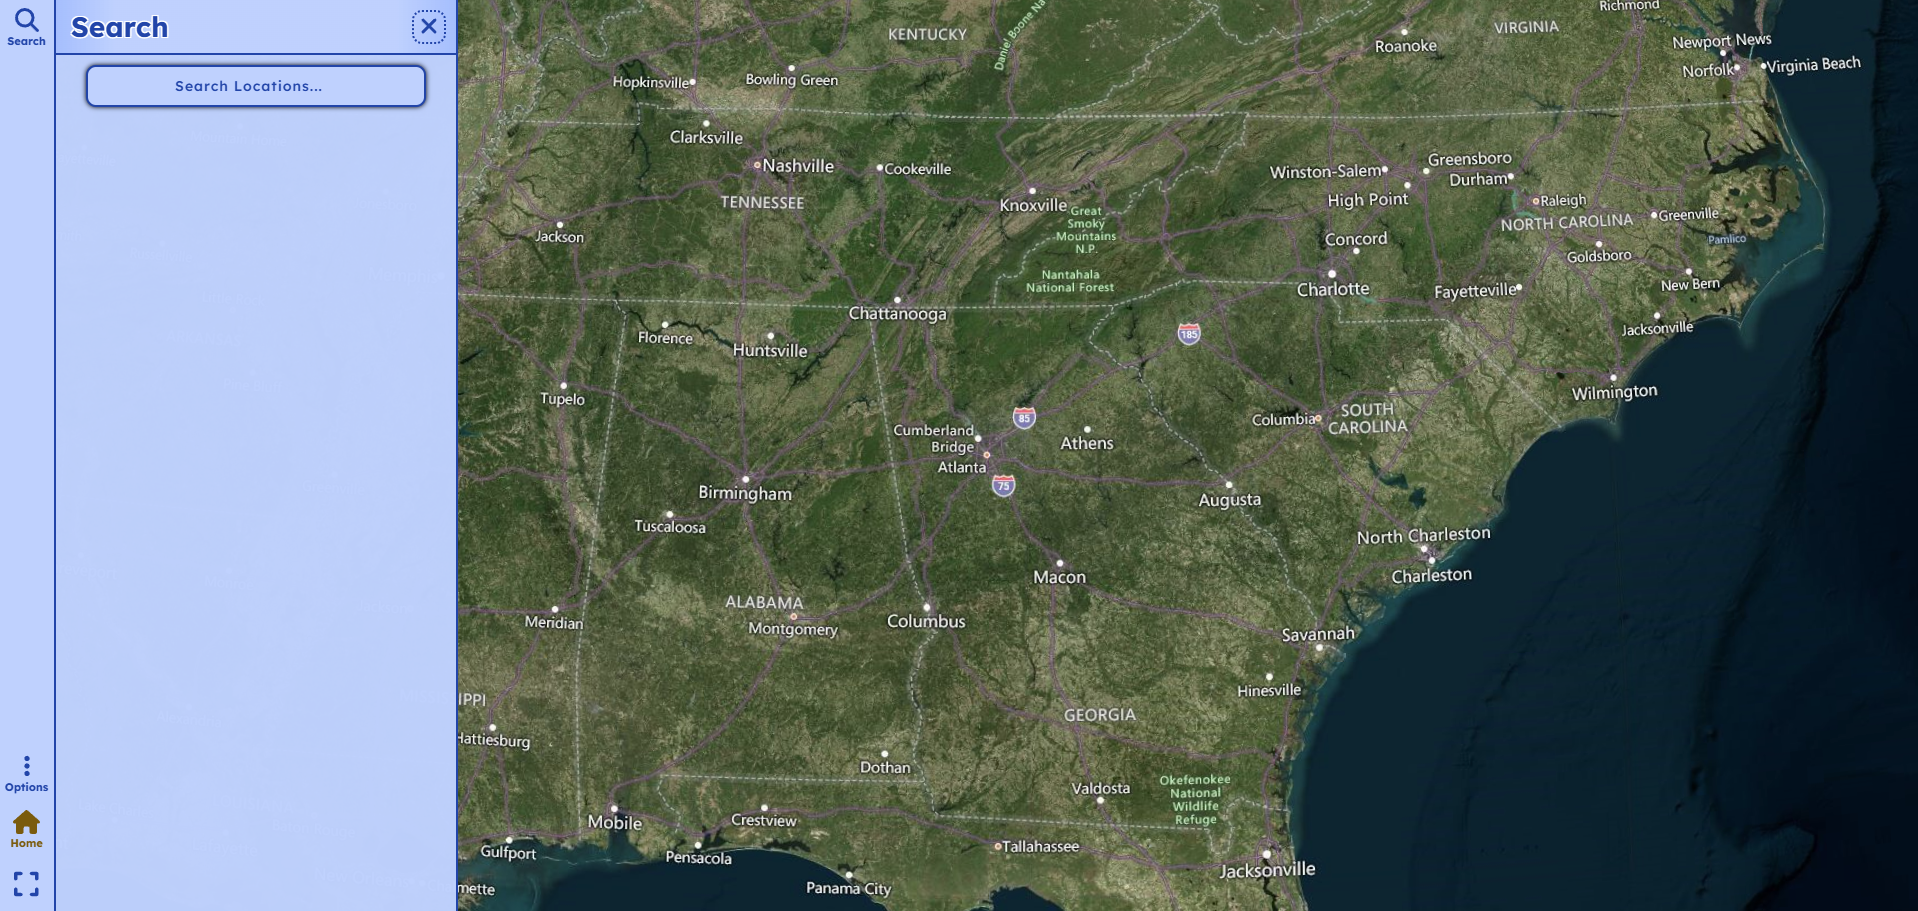
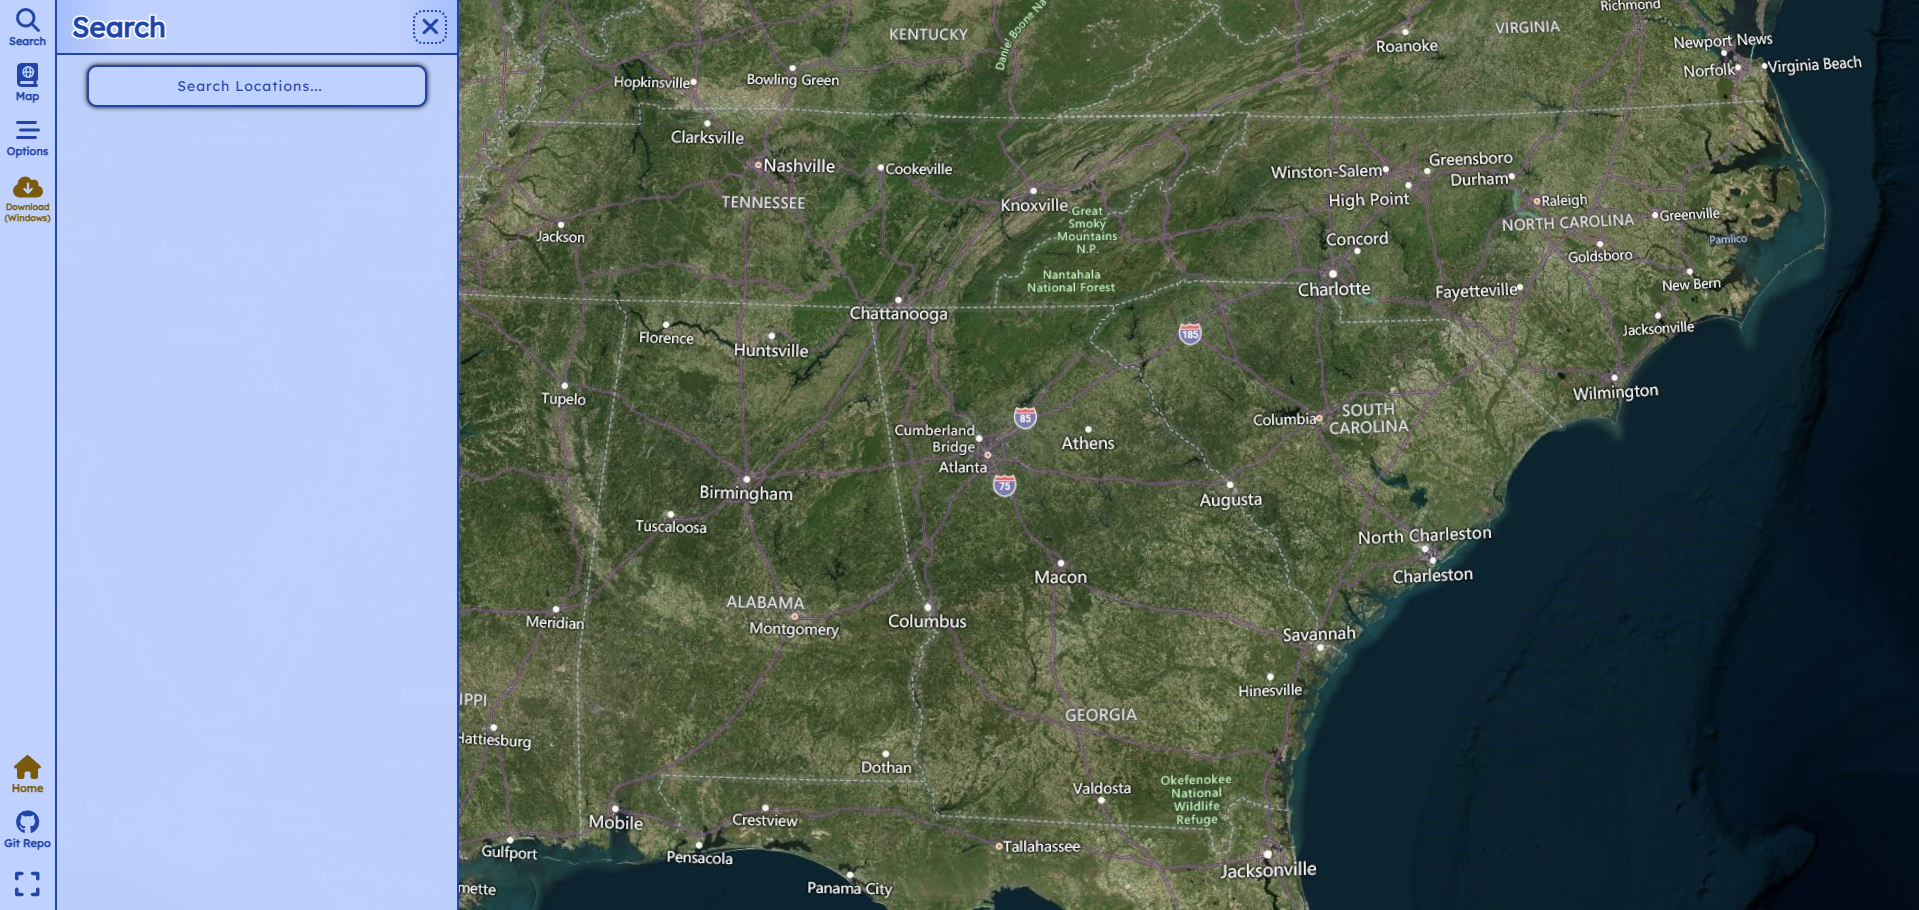
Globe Navigation Card Updates + Updated Dependencies.
Updated the Globe Navigation Card and other related components and assets to properly reflect the new features present on my Globe UI and its purpose.
Updated the Vite and Unhead dependencies. Also updated the project version number.
Made other small edits on the iVue Nav Card and the create app function on main-ssg.js.

diff --git a/src/components/cards/GlobeNavCard.vue b/src/components/cards/GlobeNavCard.vue
@@ -5,7 +5,7 @@
         @mouseleave="setPulseLoopAnimation">
 
         <div class="nav-newCard-header">
-            <img :src="mkj_text" width="200" class="nav-newCard-personalText" />
+            <client-only> <font-awesome-icon icon="fa-earth-americas" style="font-size: 80px;" /> </client-only>
         </div>
         <div class="nav-newCard-picture">
             <img :src="globe_page" width="77.5%" draggable="false" />
@@ -24,8 +24,8 @@
         </div>
 
         <div class="nav-newCard-desc center-flex-display">
-            As a side project, I created a new UI using CesiumJS, 
-            equipped with the ability to search locations across the world.
+            I created a User Interface using CesiumJS as a "Feature Lab" for Worlds iVue. 
+            It can be downloaded as a desktop app via Tauri.
         </div>
     </a>
 </div>
@@ -33,12 +33,10 @@
 
 <script setup>
 import "@/styles/navcards.css";
-import mkj_text from "/static-icons/Personal_Icon_Transparent.png";
 import globe_page from "@/assets/Personal_Globe_Page.png";
-
 import vuejs_icon from "@/assets/Vuejs_Icon.png";
 import cesium_icon from "@/assets/Cesium_Globe_Icon.svg";
-import pinia_icon from "@/assets/Pinia_Icon.svg";
+import tauri_icon from "@/assets/Tauri_Icon.png";
 
 onMounted(() => {
     setNavCardTransition("globe-nav-newCard");
@@ -46,7 +44,7 @@ onMounted(() => {
 
 const DEV_STACK = [
     { title: "Vue.js", icon: vuejs_icon },
-    { title: "Pinia", icon: pinia_icon },
     { title: "Cesium", icon: cesium_icon },
+    { title: "Tauri", icon: tauri_icon },
 ];
 </script>

diff --git a/src/stores/GetMeta.js b/src/stores/GetMeta.js
@@ -1,9 +1,7 @@
-import doc_img from "/static-icons/Personal_Icon_Expanded_Transparent.png";
 import og_img from "/static-icons/Personal_Icon_Expanded_Rounded.png";
-
 const WEBSITE_TITLE = "Mohit Jain | My Portfolio";
-const WEBSITE_DESC = "My personal website extensively displays my skills as a software developer " +
-    "and the experience I have gathered through working with multiple companies. Made With Vue.js.";
+const WEBSITE_DESC = "Hello! My name is Mohit Jain, and I use my portfolio to showcase " +
+    "my skills and as a \"Feature Lab\" for other projects of mine. Made With Vue.js.";
 
 /**
  * This function returns the meta tags for the website for Search Engine Optimization.
@@ -17,7 +15,7 @@ export function getMeta(pageTitle = WEBSITE_TITLE, pageRoute = "", pageDesc = WE
     return {
         title: pageTitle,
         link: [
-            { rel: 'icon', href: doc_img },
+            { rel: 'icon', href: og_img },
             { rel: 'canonical', href: WEBSITE_PATH }
         ],
 
@@ -52,7 +50,7 @@ export function getMeta(pageTitle = WEBSITE_TITLE, pageRoute = "", pageDesc = WE
 export function getMetaWithLink(pageTitle = WEBSITE_TITLE, pageLink = PERSONAL_WEBSITE_LINK, pageDesc = WEBSITE_DESC) {
     return {
         title: pageTitle,
-        link: [{ rel: 'icon', href: doc_img }],
+        link: [{ rel: 'icon', href: og_img }],
 
         meta: [
             { name: 'description', content: pageDesc },

diff --git a/src/styles/navcards.css b/src/styles/navcards.css
@@ -1,6 +1,6 @@
 .newCard-container {
     width: 100%;
-    height: 800px;
+    height: 825px;
     display: flex;
     justify-content: center;
     align-items: center;
@@ -15,7 +15,7 @@
     width: 90%;
     min-width: 290px;
     max-width: 400px;
-    height: 725px;
+    height: 750px;
     border: 3px solid var(--nav-bar-border);
     border-radius: 20px;
     transition: var(--default-transition);
@@ -221,15 +221,14 @@
 }
 
 .nav-newCard#globe-nav-newCard:hover {   
-    background-color: var(--blue-one);
-    color: black;
-    border-color: black;
+    color: var(--blue-cobalt);
+    border-color: var(--blue-cobalt);
 }
 .nav-newCard#globe-nav-newCard:hover .nav-newCard-header {
-    border-color: black;
+    border-color: var(--blue-cobalt);
 }
 .nav-newCard#globe-nav-newCard:hover .nav-newCard-desc {
-    border-color: black;
+    border-color: var(--blue-cobalt);
 }
 
 .nav-newCard#pizza-nav-newCard {

diff --git a/src/main-ssg.js b/src/main-ssg.js
@@ -70,6 +70,7 @@ library.add(
     FaIcons.faVolumeHigh,
     FaIcons.faVolumeXmark,
     FaIcons.faCircleXmark,
+    FaIcons.faEarthAmericas,
 
     FaBrands.faReact,
     FaBrands.faJs,
@@ -91,14 +92,14 @@ library.add(
 );
 
 export const createApp = ViteSSG(App, { routes: personalRoutes },
-    ({ app, router, isClient }) => {
+    ({ app, router }) => {
         const pinia = createPinia();
         app.component('font-awesome-icon', FontAwesomeIcon);
 
         app.use(VueObserveVisibility);
         app.use(pinia);
 
-        if(isClient) {
+        if(!import.meta.env.SSR) {
             app.use(VueParticles, { init: async engine => { await loadSlim(engine); } });
             if(navigator.getGamepads()) { import("./joypad-events.js"); }
         }

diff --git a/src/stores/Objects.js b/src/stores/Objects.js
@@ -621,8 +621,9 @@ export const PROJECT_ENTITIES = [
         name: "My Globe UI",
         link: PERSONAL_GLOBE_LINK,
         color: "var(--blue-one)",
-        desc: "This is a simple Globe UI that I created with Cesium. " +
-            "It uses the built-in Cesium Geocoder to search locations across the world.",
+        desc: "I created a User Interface using CesiumJS as a \"Feature Lab\" for Worlds iVue. " +
+            "It uses the built-in Cesium Geocoder to search locations across the world. " +
+            "It can also be downloaded as a destop app via Tauri.",
 
         icon: {
             id: cesium_icon,

diff --git a/src/components/cards/IvueNavCard.vue b/src/components/cards/IvueNavCard.vue
@@ -48,6 +48,6 @@ onMounted(() => {
 
 const DEV_STACK = [
     { title: "Worlds iVue", icon: wiv_icon },
-    { title: "Use of AWS", icon: aws_icon },
+    { title: "Cloud Architecture", icon: aws_icon },
 ];
 </script>

diff --git a/src/styles/navpage.css b/src/styles/navpage.css
@@ -11,7 +11,7 @@
     width: 100%;
     max-width: 1350px;
     height: fit-content;
-    min-height: 800px;
+    min-height: 825px;
     display: grid;
     grid-template-columns: 1fr 1fr 1fr;
 }
